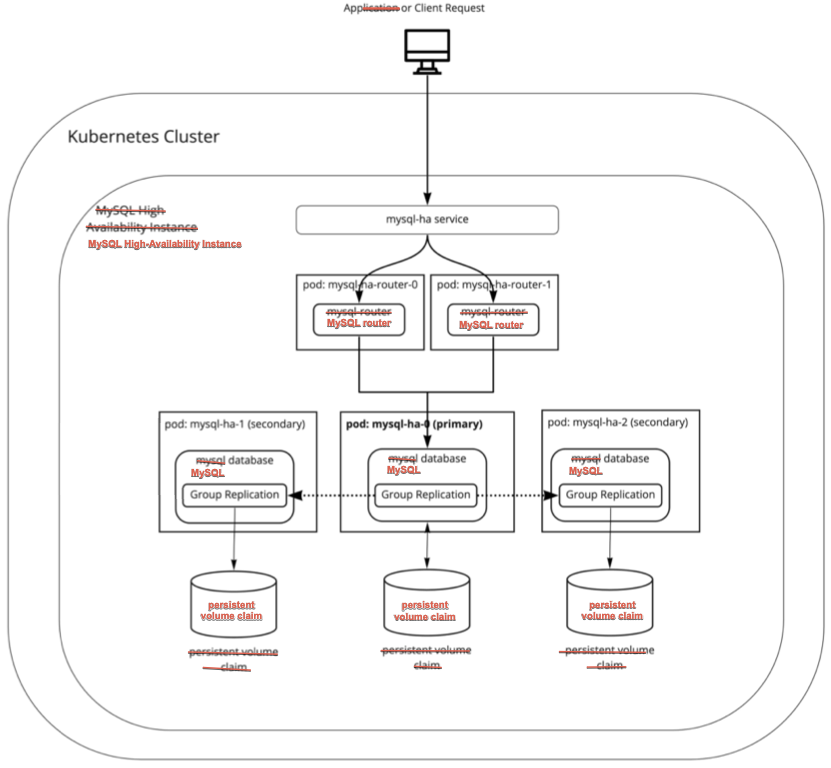
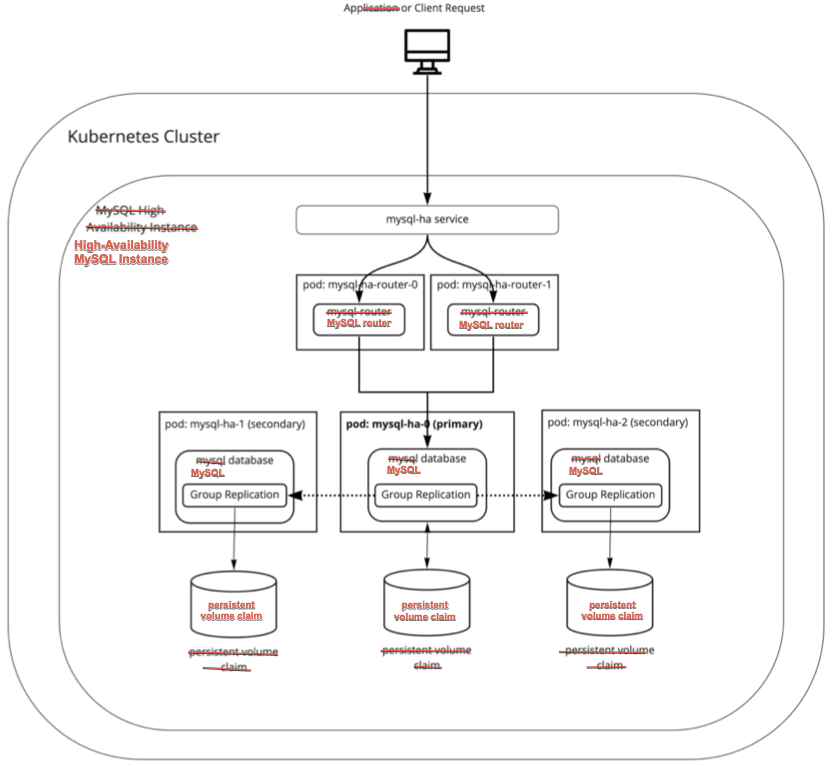
[#177486692]standardize on highly-available MySQL instance

diff --git a/README.md b/README.md
@@ -27,6 +27,7 @@ This is a word list for terminology and word usage specific to the VMware Tanzu 
 | Word | Explanation |
 |------|-------------|
 | admin | Use as a person's job description instead of operator. Decided: JD, Kim Bassett, and David Sharp 2020.12.09 and changed to admin because that's our house style. If this specifically refers to the Kubernetes admin, use "Kubernetes admin" in first use on the page. |
+| high-availability MySQL instance | Rather than "MySQL high-availability instance".|
 | Kubernetes admin | See "admin" above. |
 | MySQL instance | Not MySQL cluster. From [A. Garner](https://github.com/pivotal-cf/docs-mysql-k8s/pull/28): "To avoid overloading "cluster" further, we now always reference the deployed MySQL as an "instance" rather than "cluster" within our config samples. Updated docs that reference the Tanzu MySQL configuration to replace "cluster" with "instance". Remaining usage of the word cluster are now reference a "Kubernetes cluster" or the default Kubernetes system domain("svc.cluster.local")."
 | Operator | Don't use as a job description for a person. Use as the "Tanzu MySQL Operator" or "Kubernetes Operator". Decided: 2020.12.10 Judy explained that the Tanzu MySQL Operator is a more precise term than the Kubernetes operator. The Tanzu MySQL Operator is a type of Kubernetes Operator. Use the capital "O" and in the first use on the page, preface with "Kubernetes" or something similar to show that it's a pattern and not a person.|
